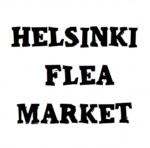
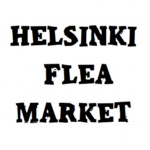
eri kirppiksia kuvat säädetty saman kokoisiksi ja flexboxia korjailtu hiukan

Changed region(s): [[0.0533, 0.1622, 0.9333, 0.3243], [0.08, 0.6486, 0.88, 0.8649], [0.2933, 0.4054, 0.7733, 0.5946]]

diff --git a/js/erilaisiakirpputoreja.js b/js/erilaisiakirpputoreja.js
@@ -19,31 +19,31 @@ function navbarClass() {
 const picArray = [
     {
         title: 'Fida',
-        caption: '',
+        alt: 'kuva fidan logosta',
         description: 'Fida on kotimainen hyväntekeväisyysmyymäläketju. Löydät heiltä vaatteita, huonekaluja ja harrastustarvikkeita. Otamme vastaan hyvänkuntoisia vaatteita, huonekaluja ja muuta kodin irtaimistoa. ',
         filename: 'kuvat/fida_logo.jpg'
     },
     {
         title: 'UFF',
-        caption: '',
+        alt: 'kuva uffin logosta',
         description: 'UFF on yleishyödyllinen säätiö, joka ylläpitää vaatekeräyspalvelua Suomessa sekä tukee globaalikehitystyötä Afrikassa ja Aaasiassa. UFF:lta löytyy vaatteille lahjoituslaatikoita ympäri kaupunkeja sekä heidän toimipisteelle voi toimittaa ehjiä ja puhtaita vaatteita sekä tekstiilejä.',
         filename: 'kuvat/uff.jpg'
     },
     {
         title: 'Relove',
-        caption: '',
+        alt: 'kuva reloven logosta',
         description: 'Relovessa laadukkaita second hand-aarteita sekä kahvilassa tarjoillaan aamiaista, lounasta ja käsintehtyjö leipomuksia viikon jokaisena päivänä',
         filename: 'kuvat/relove.jpg'
     },
     {
         title: 'Kierrätyskeskus',
-        caption: '' ,
+        alt: 'kuva kierrätyskeskuksen logosta' ,
         description: 'Kierrätyskeskuksella on pääkaupungiseudulla 12 kierrätysmyymälää sekä valtakunnallisesti toimiva verkkokauppa. Heille voi viedä ehjät ja tarpeettomat esineet, huonekalut sekä vaatteet. Kierrätyskeskusella on myös noutopalvelu isomille huonekaluille.',
         filename: 'kuvat/kierratyskeskus1.jpeg'
     },
     {
         title:'HELSINKI FLEA MARKET',
-        caption: '',
+        alt: 'kuva helsinki flea marketin logosta',
         description: 'Helsinki flea market on uusi itsepalvelukirpputori joka sijaitsee Töölössä, Helsingin virkistysalueen sydämessä. Kaikki varattavissa olevat pöydät ovat rakennettu kierrätysmateriaaleista esimerkiksi teholaivoista ja melamiinilevyistä. Heiltä löytyy myös mobiilisovellus mistä voi seurata omia myyntejä ja luomaan hintalappuja suoraan kotisohvalta.',
         filename: 'kuvat/fleamarket.jpg'
     }
@@ -54,10 +54,12 @@ const mainElem = document.querySelector('main');
 for (let i = 0; i < picArray.length; i++) {
 
     let articleElem = document.createElement('article');
+    articleElem.className = 'kirppariArticlet';
 
     let headerElem = document.createElement('header');
     let h2Elem = document.createElement('h2');
     h2Elem.innerHTML = picArray[i].title
+
 
     headerElem.appendChild(h2Elem);
 
@@ -67,11 +69,7 @@ for (let i = 0; i < picArray.length; i++) {
 
     imgElem.src = picArray[i].filename;
     figureElem.appendChild(imgElem);
-    imgElem.alt = "";
-
-    let figcaptionElem = document.createElement('figcaption');
-    figcaptionElem.innerHTML = picArray[i].caption;
-    figureElem.appendChild(figcaptionElem);
+    imgElem.alt = picArray[i].alt;
 
     let pElem = document.createElement('p');
     pElem.innerHTML = picArray[i].description;

diff --git a/css/erikirpparit.css b/css/erikirpparit.css
@@ -1,4 +1,6 @@
-
+body{
+    margin: 0;
+}
 .container{
     /*asetetaan fontti kaikkeen sisältöön oletuksena*/
     font-family: 'Montserrat', sans-serif;
@@ -90,35 +92,44 @@ tämä query avaa valikon alaspäin aukeavana jotta se näyttää hyvältä pien
     flex-wrap: wrap;
 }
 
-h2 {
+.kirppariArticlet h2 {
     margin: 20px 0 20px 0;
     padding: 20px;
-    background-color: #D29874;
+    background-color: #E6C6B2;
 }
-
+.kirppariArticlet{
+    background-color: #F1DFD4;
+    padding: 20px;
+    margin: 15px;
+    max-width: 30% ;
+    border-radius: 5px;
+}
+.kirppariArticlet img{
+    max-width: 100%;
+    height: auto;
+}
 
 main {
     background-color: #fff;
-    padding: 1rem;
+    /*padding: 1rem;*/
     display: flex;
     flex-wrap: wrap;
     justify-content: space-evenly;
 }
-
 article {
     /* width: calc(100% / 3 - 2rem); */
-    width: 30%;
+    /*width: 30%;
     padding: 1rem;
-    box-sizing: border-box;
+    box-sizing: border-box;*/
 }
 
-article header {
+.kirppariArticlet header {
     background-color: #fff;
-    padding: 0 0 1rem 0;
+    margin: 5px;
     color: #000;
 }
 
-article h2 {
+.kirppariarticlet h2 {
     margin: 0;
     text-align: center;
 }
@@ -128,8 +139,10 @@ figure {
     text-align: center;
 }
 
-figure img {
-    width: 30%;
+footer img {
+    max-width: 50%;
+    height: auto;
+    margin-top: 10px;
 }
 
 figcaption {
